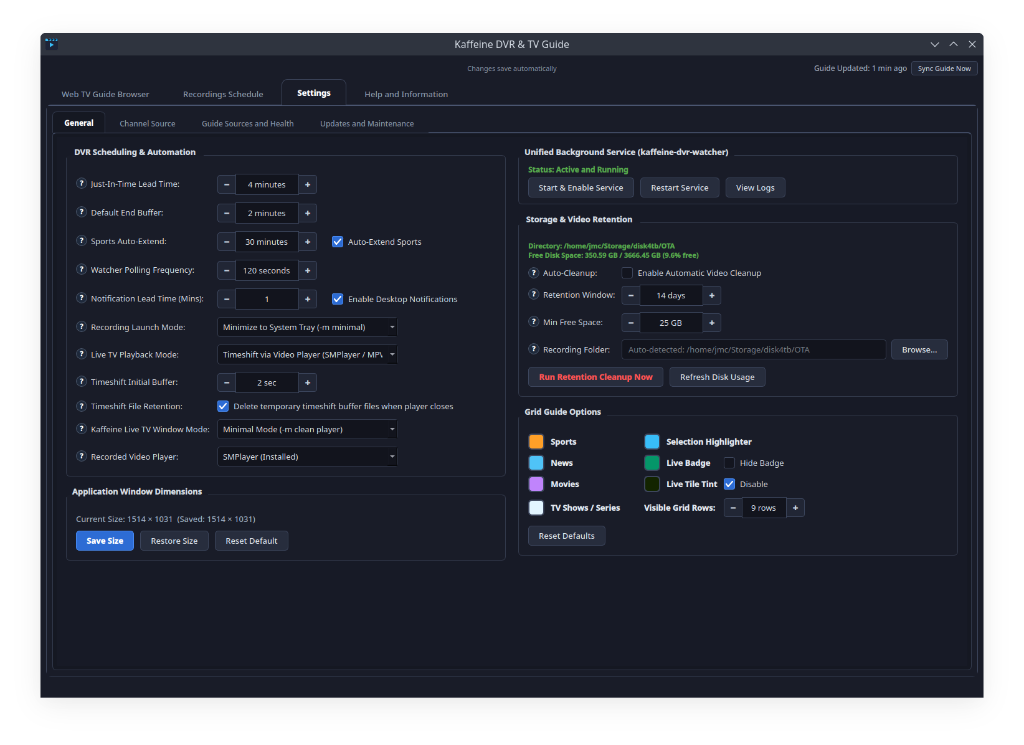
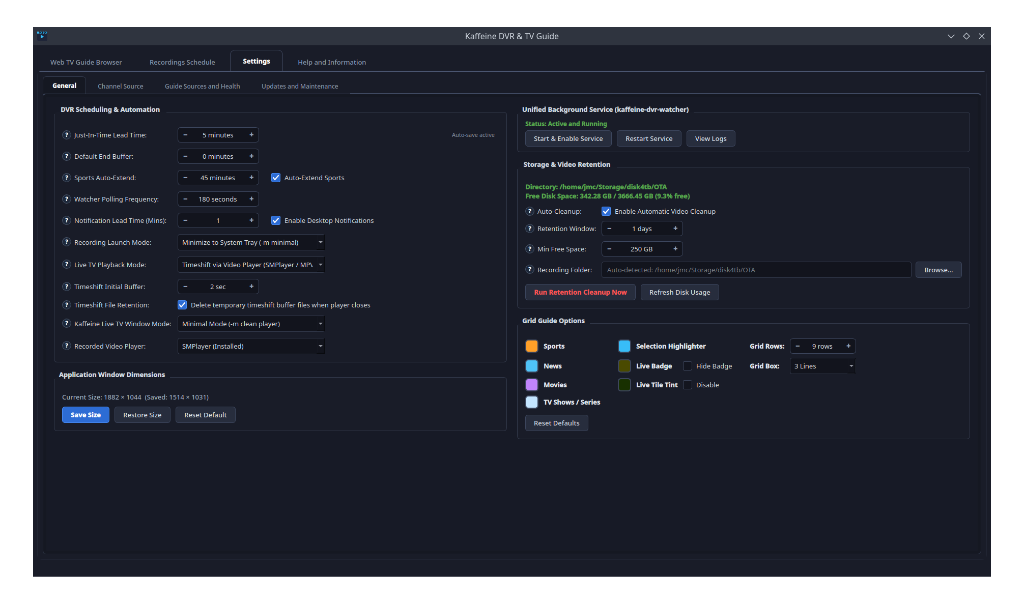
Update README screenshots with EPG grid views and General Settings

Changed region(s): [[0.0312, 0.0309, 0.9688, 0.9577], [0.75, 0.6797, 0.7812, 0.7106], [0.7188, 0.2472, 0.75, 0.278]]

diff --git a/kaffeine_dvr/gui.py b/kaffeine_dvr/gui.py
@@ -1159,7 +1159,7 @@ class TableViewportResizeFilter(QObject):
         return super().eventFilter(obj, event)
 
 
-class NumberStepper(QWidget):
+class NumberStepper(QFrame):
     """
     Horizontal stepper control with [-] [ Number Box ] [+] layout.
     Provides clear, easy-to-click decrement and increment buttons with auto-repeat,
@@ -1169,8 +1169,15 @@ class NumberStepper(QWidget):
 
     def __init__(self, parent=None):
         super().__init__(parent)
+        self.setObjectName("numberStepper")
+        self.setStyleSheet(
+            "QFrame#numberStepper { "
+            "border: 1px solid #3c465d; border-radius: 6px; "
+            "background-color: #12141d; min-height: 28px; max-height: 28px; } "
+            "QFrame#numberStepper:hover { border-color: #4f5d7e; }"
+        )
         layout = QHBoxLayout(self)
-        layout.setContentsMargins(0, 0, 0, 0)
+        layout.setContentsMargins(2, 2, 2, 2)
         layout.setSpacing(0)
 
         self._btn_minus = QPushButton("−")
@@ -1180,13 +1187,11 @@ class NumberStepper(QWidget):
         self._btn_minus.setAutoRepeatInterval(80)
         self._btn_minus.setStyleSheet(
             "QPushButton { "
-            "min-width: 28px; max-width: 28px; min-height: 28px; max-height: 28px; "
-            "font-size: 15px; font-weight: bold; border: 1px solid #3c465d; "
-            "border-top-left-radius: 4px; border-bottom-left-radius: 4px; "
-            "border-top-right-radius: 0px; border-bottom-right-radius: 0px; "
-            "border-right: none; background-color: #212635; color: #c8d2df; padding: 0px; } "
-            "QPushButton:hover { background-color: #313d56; color: #ffffff; border-color: #5a80b8; } "
-            "QPushButton:pressed { background-color: #171b26; }"
+            "min-width: 24px; max-width: 24px; min-height: 24px; max-height: 24px; "
+            "font-size: 14px; font-weight: bold; border: none; border-radius: 4px; "
+            "background-color: transparent; color: #94a3b8; padding: 0px; } "
+            "QPushButton:hover { background-color: #242c3d; color: #ffffff; } "
+            "QPushButton:pressed { background-color: #1a202c; }"
         )
 
         self._spin = QSpinBox()
@@ -1194,10 +1199,8 @@ class NumberStepper(QWidget):
         self._spin.setAlignment(Qt.AlignmentFlag.AlignCenter)
         self._spin.setStyleSheet(
             "QSpinBox { "
-            "border-radius: 0px; border: 1px solid #3c465d; "
-            "background-color: #12141d; color: #e4e9f0; "
-            "min-height: 28px; max-height: 28px; padding: 2px 6px; } "
-            "QSpinBox:focus { border-color: #4a8df5; }"
+            "border: none; background: transparent; "
+            "color: #e4e9f0; min-height: 24px; max-height: 24px; font-size: 13px; padding: 0px 4px; } "
         )
 
         self._btn_plus = QPushButton("+")
@@ -1207,13 +1210,11 @@ class NumberStepper(QWidget):
         self._btn_plus.setAutoRepeatInterval(80)
         self._btn_plus.setStyleSheet(
             "QPushButton { "
-            "min-width: 28px; max-width: 28px; min-height: 28px; max-height: 28px; "
-            "font-size: 15px; font-weight: bold; border: 1px solid #3c465d; "
-            "border-top-right-radius: 4px; border-bottom-right-radius: 4px; "
-            "border-top-left-radius: 0px; border-bottom-left-radius: 0px; "
-            "border-left: none; background-color: #212635; color: #c8d2df; padding: 0px; } "
-            "QPushButton:hover { background-color: #313d56; color: #ffffff; border-color: #5a80b8; } "
-            "QPushButton:pressed { background-color: #171b26; }"
+            "min-width: 24px; max-width: 24px; min-height: 24px; max-height: 24px; "
+            "font-size: 14px; font-weight: bold; border: none; border-radius: 4px; "
+            "background-color: transparent; color: #94a3b8; padding: 0px; } "
+            "QPushButton:hover { background-color: #242c3d; color: #ffffff; } "
+            "QPushButton:pressed { background-color: #1a202c; }"
         )
 
         layout.addWidget(self._btn_minus)
@@ -4081,10 +4082,10 @@ class MainWindow(QMainWindow):
         self.live_same_bg_check.toggled.connect(self._on_live_same_bg_toggled)
         color_grid.addWidget(self.live_same_bg_check, 2, 5, Qt.AlignmentFlag.AlignVCenter)
 
-        # Row 3: Visible Grid Rows right under Live Tile Tint
-        lbl_rows = QLabel("<b>Visible Grid Rows:</b>")
+        # Column 3: Guide & Detail Sizing
+        lbl_rows = QLabel("<b>Grid Rows:</b>")
         lbl_rows.setStyleSheet("font-size: 13px; color: #e2e8f0;")
-        color_grid.addWidget(lbl_rows, 3, 3, 1, 2, Qt.AlignmentFlag.AlignVCenter)
+        color_grid.addWidget(lbl_rows, 0, 7, Qt.AlignmentFlag.AlignVCenter)
 
         self.grid_rows_spin = NumberStepper()
         self.grid_rows_spin.setRange(4, 16)
@@ -4092,12 +4093,11 @@ class MainWindow(QMainWindow):
         self.grid_rows_spin.setSuffix(" rows")
         self.grid_rows_spin.setFixedWidth(130)
         self.grid_rows_spin.valueChanged.connect(self._on_grid_rows_changed)
-        color_grid.addWidget(self.grid_rows_spin, 3, 5, Qt.AlignmentFlag.AlignVCenter)
+        color_grid.addWidget(self.grid_rows_spin, 0, 8, Qt.AlignmentFlag.AlignVCenter)
 
-        # Row 4: Description Box Lines (2 or 3 lines)
-        lbl_desc_lines = QLabel("<b>Description Lines:</b>")
+        lbl_desc_lines = QLabel("<b>Grid Box:</b>")
         lbl_desc_lines.setStyleSheet("font-size: 13px; color: #e2e8f0;")
-        color_grid.addWidget(lbl_desc_lines, 4, 3, 1, 2, Qt.AlignmentFlag.AlignVCenter)
+        color_grid.addWidget(lbl_desc_lines, 1, 7, Qt.AlignmentFlag.AlignVCenter)
 
         self.guide_desc_lines_combo = QComboBox()
         self.guide_desc_lines_combo.addItem("2 Lines", 2)
@@ -4107,10 +4107,11 @@ class MainWindow(QMainWindow):
         d_idx = self.guide_desc_lines_combo.findData(cur_desc_lines)
         self.guide_desc_lines_combo.setCurrentIndex(d_idx if d_idx >= 0 else 1)
         self.guide_desc_lines_combo.currentIndexChanged.connect(self._on_guide_desc_lines_changed)
-        color_grid.addWidget(self.guide_desc_lines_combo, 4, 5, Qt.AlignmentFlag.AlignVCenter)
+        color_grid.addWidget(self.guide_desc_lines_combo, 1, 8, Qt.AlignmentFlag.AlignVCenter)
 
-        color_grid.setColumnMinimumWidth(2, 28)
-        color_grid.setColumnStretch(6, 1)
+        color_grid.setColumnMinimumWidth(2, 24)
+        color_grid.setColumnMinimumWidth(6, 24)
+        color_grid.setColumnStretch(9, 1)
         color_layout.addLayout(color_grid)
 
         cat_btn_row = QHBoxLayout()

diff --git a/README.md b/README.md
@@ -45,6 +45,7 @@ Kaffeine is a powerful digital TV viewer for KDE and Linux desktop environments,
 | Traditional EPG Grid TV Guide View |
 |:---:|
 | [![Traditional EPG Grid TV Guide View](docs/screenshots/guide_grid.png)](docs/screenshots/guide_grid.png) |
+| [![Traditional EPG Grid TV Guide View](docs/screenshots/guide_grid_2.png)](docs/screenshots/guide_grid_2.png) |
 
 | General Settings |
 |:---:|
